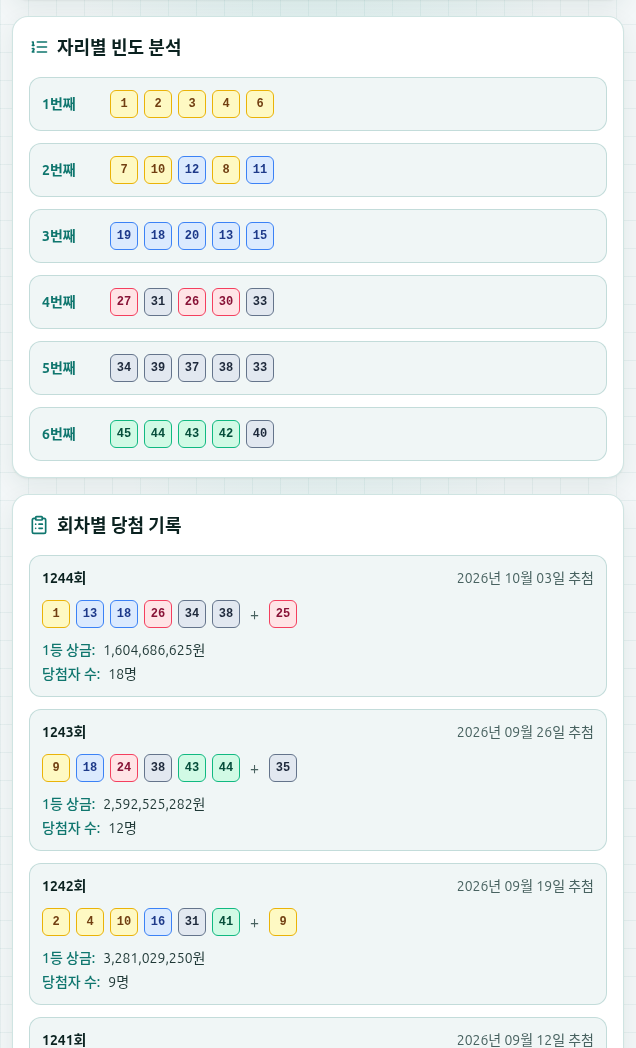
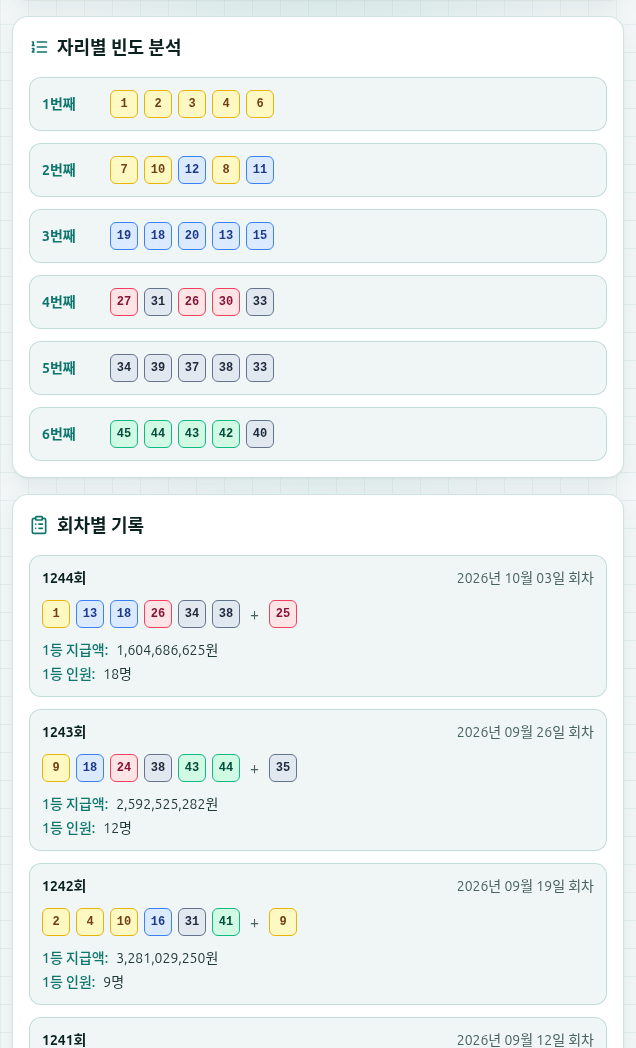
feat: 5게임 제거, 처음 1회 무료 후 보상형 광고, 화면의 '당첨' 표현 정리
- 5게임 모드와 토글 제거(번호 생성은 항상 1게임)
- 앱을 열 때마다 처음 1회는 광고 없이 생성, 이후 생성부터 보상형 광고를 끝까지 봐야 함
  (REACT_APP_AD_FREE_GENERATIONS로 조정, 생성 성공 시에만 무료 횟수 소모)
- 광고 필요 판단을 requiresAd({ usedCount, freeCount })로 단순화하고 단위 테스트 갱신
- '당첨', '추첨', '상금' 표현을 '회차', '지급액', '1등 인원' 등 중립적인 표현으로 변경
  (제목, 메타 태그, 안내 문구 포함)
- 등록용 스크린샷과 캡처 스크립트(새 제목 기준) 갱신, 등록 정보 문서 갱신

diff --git a/src/components/Generator.js b/src/components/Generator.js
@@ -7,10 +7,9 @@ import NumberBoard from './NumberBoard';
 import NumberPicker from './NumberPicker';
 import Ticket from './Ticket';
 import { useLocalStorage } from '../hooks/useLocalStorage';
-import { adController } from '../utils/ads';
+import { FREE_GENERATIONS, adController } from '../utils/ads';
 import {
   PICK_COUNT,
-  MAX_GAMES,
   formatTicket,
   generateRandomSets,
   sortNumbers,
@@ -23,7 +22,7 @@ const MAX_HISTORY = 10;
 const REEL_STOP_INTERVAL = 350;
 const MIN_SPIN_TIME = 900;
 const MODE_HELP = {
-  recommend: '역대 당첨 통계를 분석해 서버가 번호를 제안해요.',
+  recommend: '역대 회차 통계를 분석해 서버가 번호를 제안해요.',
   random: '1~45 중에서 무작위로 뽑아요. 번호 고정/제외도 쓸 수 있어요.',
 };
 
@@ -34,7 +33,7 @@ const fetchRecommendSet = async () => {
 
 const Generator = () => {
   const [mode, setMode] = useState('recommend');
-  const [games, setGames] = useState(1);
+  const [usedCount, setUsedCount] = useState(0);
   const [options, setOptions] = useState({ fixed: [], excluded: [] });
   const [reelValues, setReelValues] = useState([]);
   const [runId, setRunId] = useState(0);
@@ -49,14 +48,14 @@ const Generator = () => {
   const isGenerating = spinning.some(Boolean);
   const optionsError = mode === 'random' ? validateOptions(options) : null;
   const canShare = typeof navigator !== 'undefined' && typeof navigator.share === 'function';
-  // 광고 그룹이 설정된 빌드에서만, 5게임 생성과 번호 고정/제외에 보상형 광고를 요구한다.
+  // 광고 그룹이 설정된 빌드에서만, 처음 FREE_GENERATIONS회 이후의 번호 생성에 보상형 광고를 요구한다.
   const adEnabled = adController.isEnabled();
-  const adRequired = adEnabled && requiresAd({ mode, games, options });
+  const adRequired = adEnabled && requiresAd({ usedCount, freeCount: FREE_GENERATIONS });
   const adNotice = !adEnabled
     ? ''
     : adRequired
-      ? '광고를 끝까지 보면 이용할 수 있어요'
-      : '5게임 생성과 번호 고정·제외는 광고를 끝까지 보면 이용할 수 있어요';
+      ? '광고를 끝까지 보면 번호를 만들 수 있어요'
+      : `처음 ${FREE_GENERATIONS}회는 광고 없이 만들 수 있고, 이후에는 광고를 끝까지 보면 돼요`;
 
   const showToast = useCallback((message) => {
     setToast(message);
@@ -73,6 +72,7 @@ const Generator = () => {
     const entry = { id: Date.now(), sets };
     setCurrent(entry);
     setHistory((prev) => [entry, ...prev].slice(0, MAX_HISTORY));
+    setUsedCount((count) => count + 1); // 생성이 끝났을 때만 무료 횟수를 소모한다
     setAnnounce(`생성된 번호. ${formatTicket(sets)}`);
   }, [setHistory]);
 
@@ -82,8 +82,8 @@ const Generator = () => {
     setSpinning(Array(PICK_COUNT).fill(true));
 
     const make = mode === 'random'
-      ? async () => generateRandomSets(games, options)
-      : () => Promise.all(Array.from({ length: games }, fetchRecommendSet));
+      ? async () => generateRandomSets(1, options)
+      : () => Promise.all([fetchRecommendSet()]);
     const minSpin = new Promise((resolve) => setTimeout(resolve, MIN_SPIN_TIME));
 
     Promise.all([make(), minSpin]).then(([sets]) => {
@@ -100,7 +100,7 @@ const Generator = () => {
       setSpinning(Array(PICK_COUNT).fill(false));
       showToast('번호를 불러오지 못했어요. 잠시 후 다시 시도해 주세요.');
     });
-  }, [mode, games, options, finish, showToast]);
+  }, [mode, options, finish, showToast]);
 
   // 번호 생성을 누르면 (설정된 경우) 광고를 먼저 보여 주고, 끝나면 생성을 시작한다.
   // 광고가 준비되지 않았거나 실패하면 광고 없이 바로 생성한다.
@@ -118,7 +118,7 @@ const Generator = () => {
     adController.run().then((proceed) => {
       setAdBusy(false);
       if (proceed) startGeneration();
-      else showToast('광고를 끝까지 보면 이용할 수 있어요');
+      else showToast('광고를 끝까지 보면 번호를 만들 수 있어요');
     });
   }, [isGenerating, adBusy, adRequired, optionsError, showToast, startGeneration]);
 
@@ -163,7 +163,7 @@ const Generator = () => {
       <h1 className="font-display text-3xl sm:text-5xl font-extrabold tracking-tight mb-2 text-heading">
         {process.env.REACT_APP_BRAND_NAME || '로또 번호 생성기'}
       </h1>
-      <p className="text-muted text-sm sm:text-base mb-5">역대 당첨 데이터를 분석해 번호를 만들어 드려요</p>
+      <p className="text-muted text-sm sm:text-base mb-5">역대 회차 데이터를 분석해 번호를 만들어 드려요</p>
 
       <div className="flex justify-center flex-wrap gap-x-3 gap-y-2 mb-2">
         <div className="flex gap-2">
@@ -174,14 +174,6 @@ const Generator = () => {
           <ToggleButton active={mode === 'random'} onClick={() => setMode('random')}>
             <Shuffle className="w-4 h-4" aria-hidden="true" />
             랜덤
-          </ToggleButton>
-        </div>
-        <span className="hidden sm:block w-px bg-line" aria-hidden="true" />
-        <div className="flex gap-2">
-          <ToggleButton active={games === 1} onClick={() => setGames(1)}>1게임</ToggleButton>
-          <ToggleButton active={games === MAX_GAMES} onClick={() => setGames(MAX_GAMES)}>
-            {MAX_GAMES}게임
-            {adEnabled && <span className="text-[10px] leading-none font-semibold rounded border border-current px-1 py-0.5 opacity-80">광고</span>}
           </ToggleButton>
         </div>
       </div>

diff --git a/src/utils/ads.test.js b/src/utils/ads.test.js
@@ -173,25 +173,19 @@ describe('createAdController', () => {
   });
 });
 
-describe('requiresAd (보상형 광고가 필요한 생성)', () => {
-  const none = { fixed: [], excluded: [] };
-
-  test('1게임은 추천/랜덤 모두 광고 없이 무료', () => {
-    expect(requiresAd({ mode: 'recommend', games: 1, options: none })).toBe(false);
-    expect(requiresAd({ mode: 'random', games: 1, options: none })).toBe(false);
+describe('requiresAd (무료 횟수 이후에만 보상형 광고 필요)', () => {
+  test('처음 1회는 무료이고 그 이후부터 광고가 필요하다', () => {
+    expect(requiresAd({ usedCount: 0, freeCount: 1 })).toBe(false);
+    expect(requiresAd({ usedCount: 1, freeCount: 1 })).toBe(true);
+    expect(requiresAd({ usedCount: 5, freeCount: 1 })).toBe(true);
   });
 
-  test('5게임은 광고가 필요하다', () => {
-    expect(requiresAd({ mode: 'recommend', games: 5, options: none })).toBe(true);
-    expect(requiresAd({ mode: 'random', games: 5, options: none })).toBe(true);
+  test('무료 횟수가 3이면 3번까지 무료이고 네 번째부터 광고가 필요하다', () => {
+    expect(requiresAd({ usedCount: 2, freeCount: 3 })).toBe(false);
+    expect(requiresAd({ usedCount: 3, freeCount: 3 })).toBe(true);
   });
 
-  test('랜덤 모드에서 번호 고정 또는 제외를 쓰면 광고가 필요하다', () => {
-    expect(requiresAd({ mode: 'random', games: 1, options: { fixed: [7], excluded: [] } })).toBe(true);
-    expect(requiresAd({ mode: 'random', games: 1, options: { fixed: [], excluded: [13] } })).toBe(true);
-  });
-
-  test('추천 모드는 서버가 번호를 정하므로 고정/제외 값이 남아 있어도 광고가 필요 없다', () => {
-    expect(requiresAd({ mode: 'recommend', games: 1, options: { fixed: [7], excluded: [13] } })).toBe(false);
+  test('무료 횟수가 0이면 처음부터 매번 광고가 필요하다', () => {
+    expect(requiresAd({ usedCount: 0, freeCount: 0 })).toBe(true);
   });
 });

diff --git a/src/components/WinningNumbers.js b/src/components/WinningNumbers.js
@@ -32,14 +32,14 @@ const WinningNumbers = () => {
   };
 
   return (
-    <Card title="회차별 당첨 기록" icon={ClipboardList}>
+    <Card title="회차별 기록" icon={ClipboardList}>
       <AsyncState loading={loading} error={error} hasData={!!data} onRetry={retry} rows={4}>
         <div className={`grid gap-3 transition-opacity ${loading ? 'opacity-60' : ''}`}>
           {data?.content.map(({ round, date, one, two, three, four, five, six, bonus, firstWinners, firstWinPrize }) => (
             <div key={round} className="bg-panel border border-line p-3 sm:p-4 rounded-xl">
               <div className="flex items-center justify-between mb-3 text-sm sm:text-base">
                 <span className="font-bold text-heading">{round}회</span>
-                <span className="text-muted">{date.split('-')[0]}년 {date.split('-')[1]}월 {date.split('-')[2]}일 추첨</span>
+                <span className="text-muted">{date.split('-')[0]}년 {date.split('-')[1]}월 {date.split('-')[2]}일 회차</span>
               </div>
               <div className="flex items-center gap-1.5 sm:gap-2.5 mb-3">
                 {[one, two, three, four, five, six].map((n, i) => (
@@ -50,11 +50,11 @@ const WinningNumbers = () => {
               </div>
               <div className="flex flex-col sm:flex-row sm:items-center gap-1 sm:gap-6 text-sm text-body">
                 <div className="flex items-center gap-2">
-                  <span className="text-accent font-medium">1등 상금:</span>
+                  <span className="text-accent font-medium">1등 지급액:</span>
                   <span>{firstWinPrize.toLocaleString()}원</span>
                 </div>
                 <div className="flex items-center gap-2">
-                  <span className="text-accent font-medium">당첨자 수:</span>
+                  <span className="text-accent font-medium">1등 인원:</span>
                   <span>{firstWinners}명</span>
                 </div>
               </div>

diff --git a/public/index.html b/public/index.html
@@ -10,13 +10,13 @@
     <meta name="theme-color" content="#0a1416" media="(prefers-color-scheme: dark)" />
     <meta
       name="description"
-      content="추천·랜덤 로또 번호 생성, 역대 당첨 번호와 번호별 통계를 한눈에 확인하세요."
+      content="추천·랜덤 로또 번호 생성, 역대 회차 번호와 번호별 통계를 한눈에 확인하세요."
     />
     <link rel="canonical" href="https://seogineer.github.io/react-lotto-generator/" />
     <meta property="og:type" content="website" />
     <meta property="og:locale" content="ko_KR" />
     <meta property="og:title" content="로또 번호 생성기" />
-    <meta property="og:description" content="추천·랜덤 로또 번호 생성, 역대 당첨 번호와 번호별 통계를 한눈에 확인하세요." />
+    <meta property="og:description" content="추천·랜덤 로또 번호 생성, 역대 회차 번호와 번호별 통계를 한눈에 확인하세요." />
     <meta property="og:url" content="https://seogineer.github.io/react-lotto-generator/" />
     <meta property="og:image" content="https://seogineer.github.io/react-lotto-generator/logo512.png" />
     <link rel="apple-touch-icon" href="%PUBLIC_URL%/logo192.png" />
@@ -39,7 +39,7 @@
   <body>
     <noscript>
       <h1>로또 번호 생성기</h1>
-      <p>랜덤 또는 통계 기반 로또 번호 생성, 역대 당첨 번호 조회, 번호별 빈도 통계를 제공합니다.</p>
+      <p>랜덤 또는 통계 기반 로또 번호 생성, 역대 회차 번호 조회, 번호별 빈도 통계를 제공합니다.</p>
       <p>이 앱을 사용하려면 JavaScript를 켜 주세요. (You need to enable JavaScript to run this app.)</p>
     </noscript>
     <div id="root"></div>

diff --git a/src/components/LatestDraw.js b/src/components/LatestDraw.js
@@ -12,7 +12,7 @@ const LatestDraw = () => {
   const draw = data?.content?.[0];
 
   return (
-    <Card title={draw ? `최신 당첨 번호 · ${draw.round}회` : '최신 당첨 번호'} icon={ClipboardList}>
+    <Card title={draw ? `최신 회차 번호 · ${draw.round}회` : '최신 회차 번호'} icon={ClipboardList}>
       <AsyncState loading={loading} error={error} hasData={!!draw} onRetry={retry} rows={1}>
         {draw && (() => {
           const { date, one, two, three, four, five, six, bonus, firstWinPrize, firstWinners } = draw;
@@ -27,8 +27,8 @@ const LatestDraw = () => {
                 <NumberBall number={bonus} size="md" />
               </div>
               <div className="text-sm text-body space-y-1">
-                <p className="text-muted">{year}년 {month}월 {day}일 추첨</p>
-                <p><span className="text-accent font-medium">1등 상금</span> {firstWinPrize.toLocaleString()}원 · <span className="text-accent font-medium">당첨자</span> {firstWinners}명</p>
+                <p className="text-muted">{year}년 {month}월 {day}일 회차</p>
+                <p><span className="text-accent font-medium">1등 지급액</span> {firstWinPrize.toLocaleString()}원 · <span className="text-accent font-medium">1등 인원</span> {firstWinners}명</p>
               </div>
             </div>
           );

diff --git a/src/utils/lotto.js b/src/utils/lotto.js
@@ -1,7 +1,6 @@
 export const LOTTO_MAX = 45;
 export const PICK_COUNT = 6;
 export const MAX_FIXED = 5;
-export const MAX_GAMES = 5;
 
 export const BALL_RANGES = [
   { tone: 'yellow', label: '1~10' },
@@ -50,10 +49,8 @@ export const generateRandomSet = ({ fixed = [], excluded = [] } = {}, rng = Math
 export const generateRandomSets = (count, options = {}, rng = Math.random) =>
   Array.from({ length: count }, () => generateRandomSet(options, rng));
 
-// 5게임 생성과 번호 고정/제외(고급 옵션)는 보상형 광고를 끝까지 본 경우에만 이용할 수 있다. 1게임은 무료.
-// 추천 모드는 서버가 번호를 정하므로 고정/제외 옵션은 적용되지 않는다.
-export const requiresAd = ({ mode, games, options }) =>
-  games > 1 || (mode === 'random' && (options.fixed.length > 0 || options.excluded.length > 0));
+// 처음 freeCount회는 무료이고, 그 이후 번호 생성부터 보상형 광고를 끝까지 봐야 한다.
+export const requiresAd = ({ usedCount, freeCount }) => usedCount >= freeCount;
 
 export const nextPickState = (state) => {
   if (state === undefined) return 'fixed';

diff --git a/src/utils/ads.js b/src/utils/ads.js
@@ -102,6 +102,14 @@ export const createAdController = ({ loadSdk, adGroupId, type = 'interstitial', 
 
 const IS_MINI_APP = process.env.REACT_APP_AIT === '1';
 
+// 앱을 열 때마다 처음 몇 번의 번호 생성은 광고 없이 쓸 수 있게 한다(기본 1회, 0이면 매번 광고).
+const parseFreeCount = (raw) => {
+  if (raw === undefined || raw === '') return 1;
+  const n = Number(raw);
+  return Number.isFinite(n) && n >= 0 ? Math.floor(n) : 1;
+};
+export const FREE_GENERATIONS = parseFreeCount(process.env.REACT_APP_AD_FREE_GENERATIONS);
+
 export const AD_TYPE = process.env.REACT_APP_AD_TYPE === 'interstitial' ? 'interstitial' : 'rewarded';
 
 export const adController = createAdController({

diff --git a/src/components/Footer.js b/src/components/Footer.js
@@ -12,7 +12,7 @@ const Footer = () => (
         </li>
       ))}
     </ul>
-    <p>재미를 위한 번호 생성기이며 당첨을 보장하지 않습니다. 통계 기반 추천도 당첨 확률을 높이지 않습니다. 과도한 구매는 삼가 주세요.</p>
+    <p>재미를 위한 번호 생성기이며 어떤 결과도 보장하지 않습니다. 통계 기반 추천도 확률을 높이지 않습니다. 과도한 구매는 삼가 주세요.</p>
   </footer>
 );
 

diff --git a/store-assets/app-listing.md b/store-assets/app-listing.md
@@ -11,15 +11,15 @@
 역대 번호 통계와 번호 생성
 
 ## 상세 설명
-로또 6/45의 역대 당첨 번호와 번호별 통계를 확인하고, 통계 기반 또는 랜덤 방식으로 번호를 생성해 볼 수 있는 서비스입니다. 앱에 들어오면 번호 생성 화면에서 숫자가 섞이다가 번호로 확정되고, 아래에서 최근 회차의 당첨 번호와 출현 빈도 분석, 자리별 빈도 분석, 회차별 당첨 기록을 볼 수 있습니다. 재미를 위한 서비스이며 복권 구매나 베팅과 연결되지 않고, 통계 기반 추천도 당첨 확률을 높이지 않습니다.
+로또 6/45의 역대 회차별 번호 기록과 번호별 통계를 확인하고, 통계 기반 또는 랜덤 방식으로 번호를 생성해 볼 수 있는 서비스입니다. 앱에 들어오면 번호 생성 화면에서 숫자가 섞이다가 번호로 확정되고, 아래에서 최근 회차의 번호와 출현 빈도 분석, 자리별 빈도 분석, 회차별 기록을 볼 수 있습니다. 처음 1회는 광고 없이 만들 수 있고, 이후에는 광고를 끝까지 보면 번호를 만들 수 있습니다. 재미를 위한 서비스이며 복권 구매나 베팅과 연결되지 않고, 통계 기반 추천도 확률을 높이지 않습니다.
 
-## 출시 노트 (첫 버전)
-번호 연구소를 처음 선보여요.
-- 번호 생성: 통계 기반 또는 랜덤 방식으로 번호를 만들 수 있어요.
-- 당첨 번호 조회: 역대 회차별 당첨 번호를 확인할 수 있어요.
-- 빈도 분석: 가장 많이 나온 번호와 자리별 상위 번호를 볼 수 있어요.
+## 출시 노트
+번호 연구소를 새롭게 바꿨어요.
+- 연구소 느낌의 새 디자인과 라이트 모드를 추가했어요.
+- 번호를 만들 때 처음 1회는 광고 없이 만들 수 있고, 이후에는 광고를 끝까지 보면 만들 수 있어요.
+- 회차별 기록과 빈도 분석 화면을 정리했어요.
 
-재미를 위한 서비스이며, 복권 구매나 베팅과 연결되지 않아요. 통계 기반 추천도 당첨 확률을 높이지 않아요.
+재미를 위한 서비스이며, 복권 구매나 베팅과 연결되지 않아요. 통계 기반 추천도 확률을 높이지 않아요.
 
 ## 주요 기능 (한글 10자 이내 / 영문 15자 이내, 첫 글자만 대문자, 기호는 : . 만)
 | 한글 | 영문 |
@@ -42,10 +42,15 @@
 - 재생성: python3 make_logo.py / node capture-screenshots.mjs <미리보기 URL> <CDP 포트>
 
 ## 인앱 광고 (보상형)
-- 광고 종류: 보상형. 1게임 번호 생성은 광고 없이 무료이고, 5게임 생성과 번호 고정/제외(고급 옵션)는 광고를 끝까지 본 경우에만 이용한다.
+- 광고 종류: 보상형. 앱을 열 때마다 처음 1회의 번호 생성은 광고 없이 무료이고, 이후 번호 생성부터 광고를 끝까지 본 경우에만 생성한다(5게임과 번호 고정/제외 광고 구분은 없앴다).
+- 무료 횟수는 `REACT_APP_AD_FREE_GENERATIONS`(기본 1, 0이면 처음부터 매번 광고)로 바꾼다. 생성에 성공했을 때만 무료 횟수를 소모한다.
 - 보상은 userEarnedReward 이벤트를 받았을 때만 지급하고, 광고가 준비되지 않았거나 실패하면 광고 없이 진행한다.
-- 광고가 필요한 버튼은 '광고 보고 번호 생성하기'로 표시하고, 5게임 토글에 '광고' 표시와 안내 문구를 둔다.
-- 빌드: 테스트 `npm run build:ait:ad-test`(보상형 테스트 ID만 사용), 운영 `REACT_APP_AD_GROUP_ID=<광고 그룹 ID> npm run build:ait`
+- 광고가 필요한 버튼은 '광고 보고 번호 생성하기'로 표시하고 안내 문구를 둔다.
+- 광고 그룹 ID(보상형 운영): ait.v2.live.a577ec24573b4444 (클라이언트에 포함되는 값이며 비밀이 아님)
+- 빌드: 테스트 `npm run build:ait:ad-test`(보상형 테스트 ID만 사용), 운영 `npm run build:ait:release`
 - 전면형 그룹을 쓰려면 `REACT_APP_AD_TYPE=interstitial`을 함께 지정한다. 종류가 어긋나면 보상이 무시되거나 영영 진행되지 않는다.
-- 광고는 샌드박스로 확인할 수 없으므로 콘솔 출시 QR로 토스 앱에서 테스트한다. 테스트에는 반드시 테스트 ID만 쓴다.
+- 광고는 샌드박스로 확인할 수 없으므로 콘솔 출시 QR로 토스 앱에서 테스트한다. 테스트에는 반드시 테스트 ID만 쓰고, 운영 ID로 사전 테스트하지 않는다.
 
+## 화면 표현 기준
+- '당첨', '추첨', '상금' 대신 '회차', '지급액', '1등 인원' 같은 중립적인 표현을 쓴다(기능명과 화면 문구가 어긋나지 않게 유지).
+- 안내 문구는 '어떤 결과도 보장하지 않는다', '확률을 높이지 않는다'로 쓴다.
